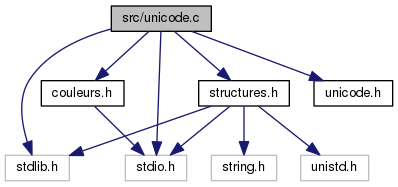
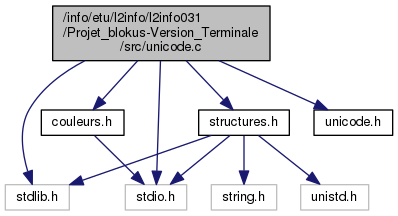
Add files via upload

diff --git a/doc/html/unicode_8c.html b/doc/html/unicode_8c.html
@@ -4,7 +4,7 @@
 <meta http-equiv="Content-Type" content="text/xhtml;charset=UTF-8"/>
 <meta http-equiv="X-UA-Compatible" content="IE=9"/>
 <meta name="generator" content="Doxygen 1.8.11"/>
-<title>Blokus_terminal: Référence du fichier src/unicode.c</title>
+<title>Blokus_terminal: Référence du fichier /info/etu/l2info/l2info031/Projet_blokus-Version_Terminale/src/unicode.c</title>
 <link href="tabs.css" rel="stylesheet" type="text/css"/>
 <script type="text/javascript" src="jquery.js"></script>
 <script type="text/javascript" src="dynsections.js"></script>
@@ -101,11 +101,11 @@ var searchBox = new SearchBox("searchBox", "search",false,'Recherche');
 </div><div class="textblock"><div class="dynheader">
 Graphe des dépendances par inclusion de unicode.c:</div>
 <div class="dyncontent">
-<div class="center"><img src="unicode_8c__incl.png" border="0" usemap="#src_2unicode_8c" alt=""/></div>
-<map name="src_2unicode_8c" id="src_2unicode_8c">
-<area shape="rect" id="node4" href="unicode_8h_source.html" title="unicode.h" alt="" coords="314,80,393,107"/>
-<area shape="rect" id="node5" href="couleurs_8h_source.html" title="couleurs.h" alt="" coords="41,80,124,107"/>
-<area shape="rect" id="node6" href="structures_8h.html" title="Contient les structures communes du programme. " alt="" coords="199,80,289,107"/>
+<div class="center"><img src="unicode_8c__incl.png" border="0" usemap="#_2info_2etu_2l2info_2l2info031_2Projet__blokus-Version__Terminale_2src_2unicode_8c" alt=""/></div>
+<map name="_2info_2etu_2l2info_2l2info031_2Projet__blokus-Version__Terminale_2src_2unicode_8c" id="_2info_2etu_2l2info_2l2info031_2Projet__blokus-Version__Terminale_2src_2unicode_8c">
+<area shape="rect" id="node4" href="unicode_8h_source.html" title="unicode.h" alt="" coords="314,109,393,136"/>
+<area shape="rect" id="node5" href="couleurs_8h_source.html" title="couleurs.h" alt="" coords="41,109,124,136"/>
+<area shape="rect" id="node6" href="structures_8h.html" title="Contient les structures communes du programme. " alt="" coords="199,109,289,136"/>
 </map>
 </div>
 </div><table class="memberdecls">

diff --git a/doc/html/structures_8h_source.html b/doc/html/structures_8h_source.html
@@ -4,7 +4,7 @@
 <meta http-equiv="Content-Type" content="text/xhtml;charset=UTF-8"/>
 <meta http-equiv="X-UA-Compatible" content="IE=9"/>
 <meta name="generator" content="Doxygen 1.8.11"/>
-<title>Blokus_terminal:  Fichier source de src/structures.h</title>
+<title>Blokus_terminal:  Fichier source de /info/etu/l2info/l2info031/Projet_blokus-Version_Terminale/src/structures.h</title>
 <link href="tabs.css" rel="stylesheet" type="text/css"/>
 <script type="text/javascript" src="jquery.js"></script>
 <script type="text/javascript" src="dynsections.js"></script>

diff --git a/doc/html/unicode_8h_source.html b/doc/html/unicode_8h_source.html
@@ -4,7 +4,7 @@
 <meta http-equiv="Content-Type" content="text/xhtml;charset=UTF-8"/>
 <meta http-equiv="X-UA-Compatible" content="IE=9"/>
 <meta name="generator" content="Doxygen 1.8.11"/>
-<title>Blokus_terminal:  Fichier source de src/unicode.h</title>
+<title>Blokus_terminal:  Fichier source de /info/etu/l2info/l2info031/Projet_blokus-Version_Terminale/src/unicode.h</title>
 <link href="tabs.css" rel="stylesheet" type="text/css"/>
 <script type="text/javascript" src="jquery.js"></script>
 <script type="text/javascript" src="dynsections.js"></script>
